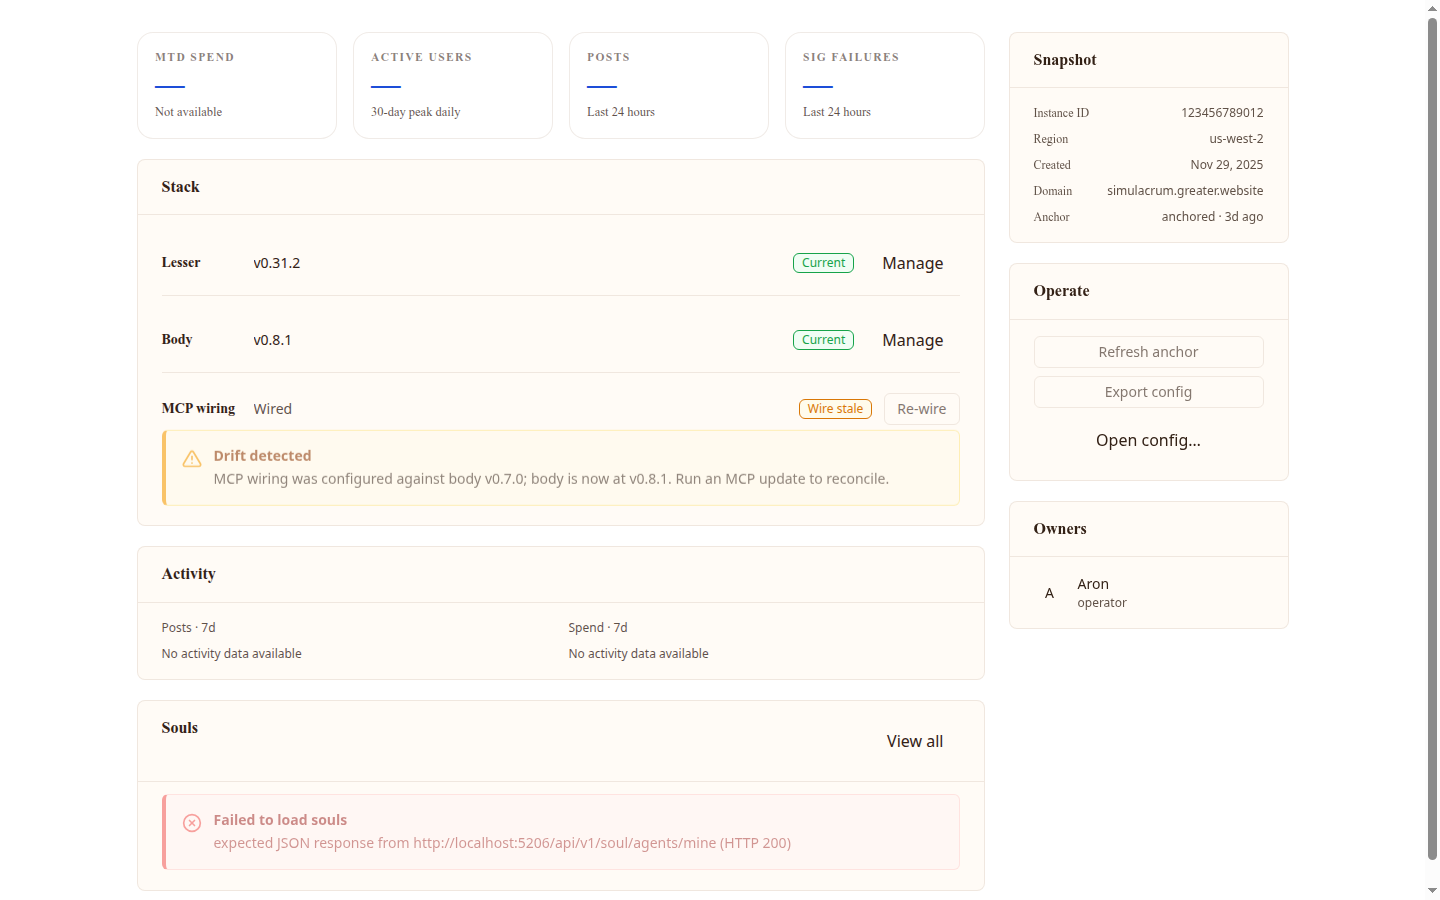
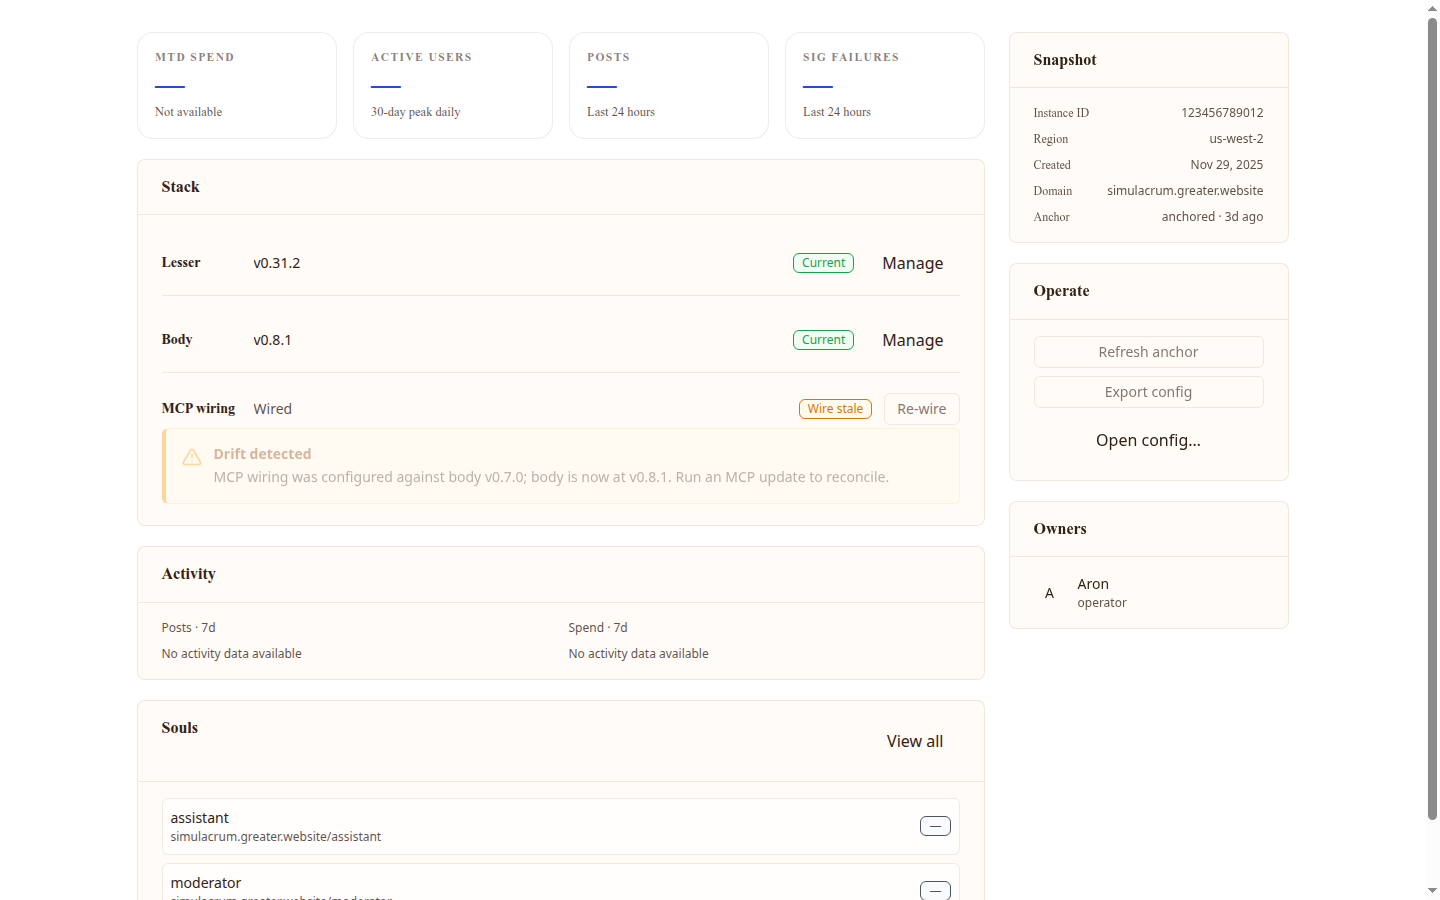
fix(portal): M6 — fix dead ternary, mock soulListMyAgents in fixture, update evidence
- Replace dead ternary `value={instance.tip_enabled ? '—' : '—'}` with `value="—"`
- Create `__mocks__/soul.ts` returning 2 bound souls for fixture use
- Alias `src/lib/api/soul` in M6 Vite fixture config so Souls preview renders
  design state instead of a localhost fetch error
- Update fixture comments + evidence markdown to reflect mock integration
- Re-capture overview.png at 1440×900 with working Souls preview

diff --git a/web/fixtures/__mocks__/soul.ts b/web/fixtures/__mocks__/soul.ts
@@ -1,0 +1,94 @@
+/**
+ * M6 Instance Overview Fixture — mock soul API (soulListMyAgents).
+ *
+ * Returns 2 bound souls so the Souls preview in InstanceOverview renders
+ * the design state rather than a fetch error. This mock is aliased into
+ * the `src/lib/api/soul` import path by the fixture Vite config and is
+ * NEVER loaded by any customer portal route.
+ *
+ * @license AGPL-3.0-only
+ */
+
+export interface SoulAgentIdentity {
+	agent_id: string;
+	domain: string;
+	local_id: string;
+	ens_name?: string;
+	wallet: string;
+	token_id?: string;
+	meta_uri?: string;
+	avatar?: {
+		token_uri?: string;
+		image?: string;
+		current_style_id?: number;
+		current_style_name?: string;
+		current_renderer_address?: string;
+		styles?: Array<{
+			style_id: number;
+			style_name: string;
+		}>;
+	};
+}
+
+export interface SoulAgentReputation {
+	tips_received?: number;
+	helpful_count?: number;
+	boundary_violations?: number;
+	failure_recoveries?: number;
+	updated_at?: string;
+}
+
+export interface SoulMineAgentItem {
+	agent: SoulAgentIdentity;
+	reputation?: SoulAgentReputation;
+}
+
+export interface SoulMineAgentsResponse {
+	agents: SoulMineAgentItem[];
+	count: number;
+}
+
+const FIXTURE_AGENTS: SoulMineAgentsResponse = {
+	agents: [
+		{
+			agent: {
+				agent_id: 'agent-sim-001',
+				domain: 'simulacrum.greater.website',
+				local_id: 'assistant',
+				wallet: '0xabc1230000000000000000000000000000000001',
+				token_id: '1',
+				avatar: {
+					token_uri: 'https://example.lesser.host/avatar/1.svg',
+					image: 'https://example.lesser.host/avatar/1.png',
+					current_style_id: 1,
+					current_style_name: 'default',
+				},
+			},
+			reputation: {
+				tips_received: 18.4,
+				helpful_count: 142,
+				updated_at: new Date().toISOString(),
+			},
+		},
+		{
+			agent: {
+				agent_id: 'agent-sim-002',
+				domain: 'simulacrum.greater.website',
+				local_id: 'moderator',
+				wallet: '0xabc1230000000000000000000000000000000002',
+				token_id: '2',
+			},
+			reputation: {
+				tips_received: 7.2,
+				helpful_count: 53,
+				updated_at: new Date().toISOString(),
+			},
+		},
+	],
+	count: 2,
+};
+
+export function soulListMyAgents(_token: string): Promise<SoulMineAgentsResponse> {
+	void _token;
+	return Promise.resolve(FIXTURE_AGENTS);
+}

diff --git a/web/src/lib/components/__fixtures__/M6InstanceOverviewFixture.svelte b/web/src/lib/components/__fixtures__/M6InstanceOverviewFixture.svelte
@@ -3,8 +3,8 @@
 M6InstanceOverviewFixture — isolated visual fixture for the M6 Instance
 Overview layout. Renders InstanceOverview with realistic mock data to
 exercise all UI states: metric cards (all unavailable), Stack card with
-drift, Activity panel (empty), Souls preview (2 bound souls), right rail
-(Snapshot/Operate/Owners).
+drift, Activity panel (empty), Souls preview (2 mock souls via aliased
+soulListMyAgents), right rail (Snapshot/Operate/Owners).
 
 Not mounted by any customer portal route — exists solely for local
 visual review and headless PNG capture at 1440×900.
@@ -61,8 +61,9 @@ visual review and headless PNG capture at 1440×900.
 		owner_avatar_hash: '',
 	};
 
-	// Provide a mock token — the fixture component never makes real API calls
-	// because the Souls fetch will fail silently in the fixture environment.
+	// Mock token — the fixture Vite config aliases src/lib/api/soul to a
+	// fixture mock that returns 2 bound souls, so the Souls preview renders
+	// the design state without a backend.
 	const fixtureToken = 'fixture-token-m6';
 </script>
 

diff --git a/web/fixtures/vite.fixture.m6.config.ts b/web/fixtures/vite.fixture.m6.config.ts
@@ -2,8 +2,8 @@
  * Vite config for the M6 Instance Overview fixture page.
  *
  * Minimal config that serves ONLY `fixtures/m6-instance-overview.html`.
- * No API mocks are needed — the fixture component renders InstanceOverview
- * with static mock data rather than making real API calls.
+ * Aliases `src/lib/api/soul` to a fixture mock so the Souls preview
+ * renders realistic data rather than a localhost fetch error.
  *
  * File watching is disabled so this works in headless environments
  * where inotify watchers are exhausted.
@@ -25,6 +25,9 @@ export default defineConfig({
 	plugins: [svelte()],
 	resolve: {
 		alias: {
+			// Mock soul API so the Souls preview renders realistic data
+			// rather than hitting localhost.
+			'src/lib/api/soul': path.resolve(webDir, 'fixtures/__mocks__/soul.ts'),
 			src: path.resolve(webDir, 'src'),
 			'@equaltoai/greater-components-icons': path.resolve(webDir, 'src/lib/greater/icons'),
 			'@equaltoai/greater-components-primitives': path.resolve(webDir, 'src/lib/greater/primitives'),

diff --git a/web/src/pages/portal/InstanceOverview.svelte b/web/src/pages/portal/InstanceOverview.svelte
@@ -208,7 +208,7 @@ const mcpDriftBadge = $derived(driftBadge(instance.mcp_drift));
 		<div class="overview__metrics">
 			<Metric
 				label="MTD spend"
-				value={instance.tip_enabled ? '—' : '—'}
+				value="—"
 				sub="Not available"
 				tone="info"
 			/>

diff --git a/gov-infra/evidence/design-fidelity/m6-instance-overview-ui/overview.md b/gov-infra/evidence/design-fidelity/m6-instance-overview-ui/overview.md
@@ -66,10 +66,11 @@ exercises:
 - Soul anchor: anchored state with relative time
 - All metric cards in honest-unavailable state
 - Empty activity sparklines
-- Bound souls (not rendered in fixture — souls fetch will fail silently)
+- Bound souls (2 mock souls via aliased `soulListMyAgents` in fixture Vite config)
 
-The fixture does NOT mock the souls API endpoint; the souls preview shows the
-"no souls bound" empty state in the fixture capture.
+The fixture Vite config aliases `src/lib/api/soul` to a fixture mock that
+returns 2 bound souls, so the Souls preview renders the design state in the
+fixture capture rather than a fetch error.
 
 ## CSP, isolation, and governance
 
